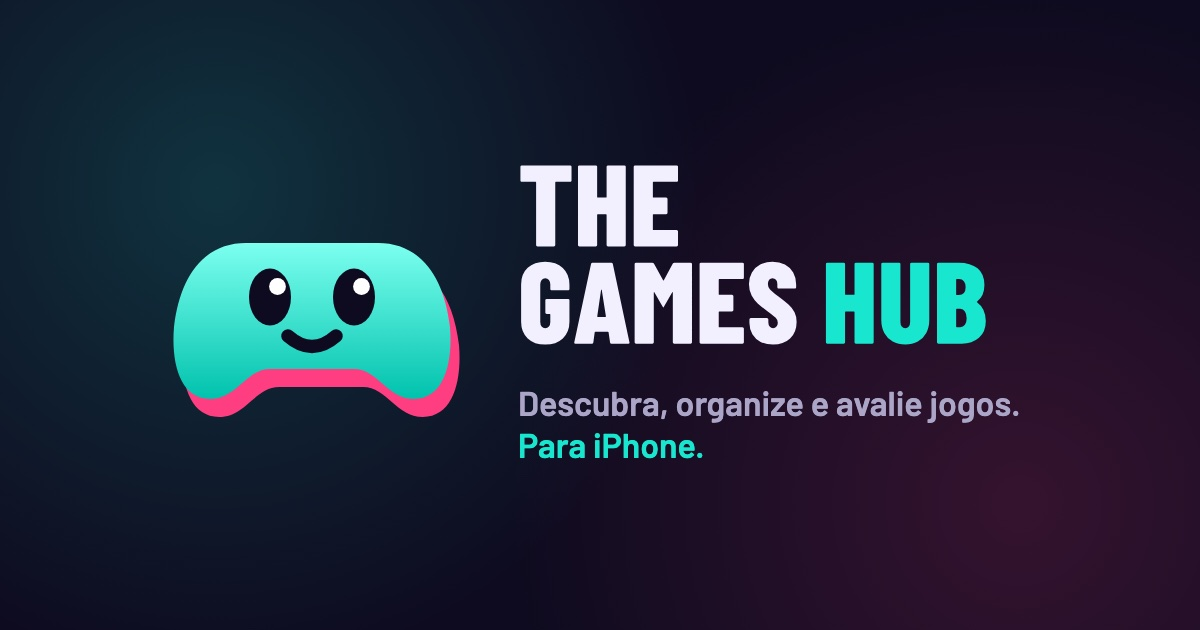
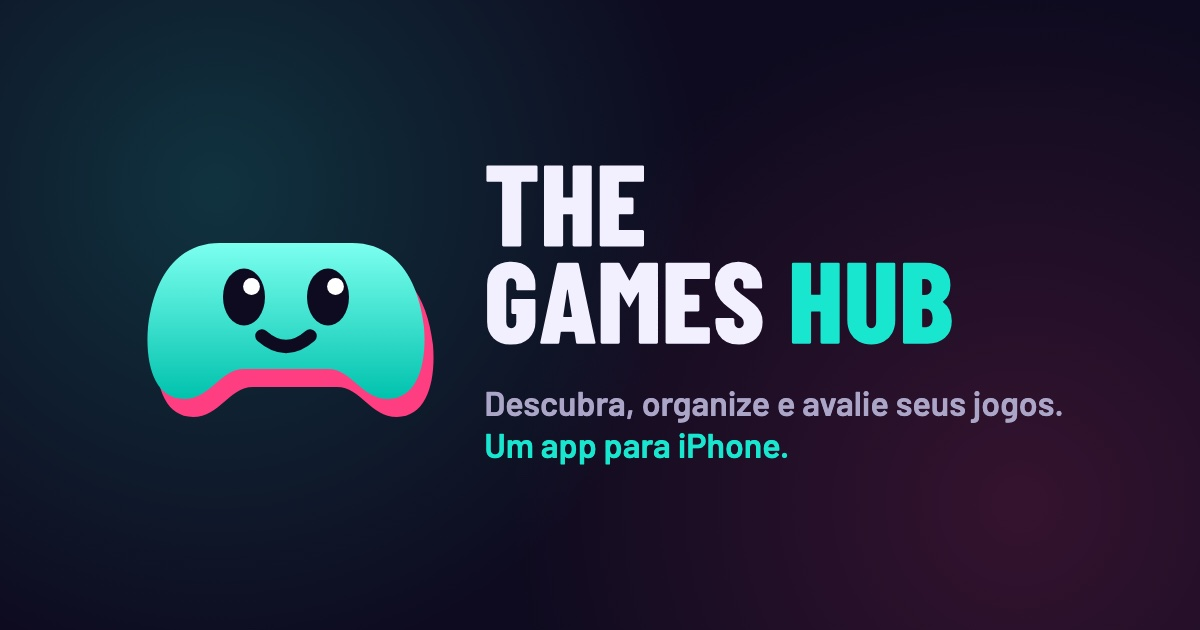
Make the link preview say it is an app

Changed region(s): [[0.1233, 0.2413, 0.8942, 0.754]]

diff --git a/index.html b/index.html
@@ -17,7 +17,7 @@
   <meta property="og:title" content="TheGamesHub · Descubra, organize e avalie jogos">
   <meta property="og:description" content="Descubra jogos, organize suas listas, dê notas e acompanhe o que seus amigos estão jogando. App para iPhone.">
   <meta property="og:url" content="https://thegameshub.com.br/">
-  <meta property="og:image" content="https://thegameshub.com.br/assets/og.jpg">
+  <meta property="og:image" content="https://thegameshub.com.br/assets/og.jpg?v=2">
   <meta property="og:image:width" content="1200">
   <meta property="og:image:height" content="630">
   <meta property="og:image:alt" content="Mascote e letreiro do TheGamesHub">

diff --git a/suporte.html b/suporte.html
@@ -17,7 +17,7 @@
   <meta property="og:title" content="Suporte · TheGamesHub">
   <meta property="og:description" content="Ajuda com o app TheGamesHub: fale com a gente pelo contato@thegameshub.com.br.">
   <meta property="og:url" content="https://thegameshub.com.br/suporte.html">
-  <meta property="og:image" content="https://thegameshub.com.br/assets/og.jpg">
+  <meta property="og:image" content="https://thegameshub.com.br/assets/og.jpg?v=2">
   <meta property="og:image:width" content="1200">
   <meta property="og:image:height" content="630">
   <meta property="og:image:alt" content="Mascote e letreiro do TheGamesHub">

diff --git a/privacidade.html b/privacidade.html
@@ -17,7 +17,7 @@
   <meta property="og:title" content="Política de Privacidade · TheGamesHub">
   <meta property="og:description" content="Como o app TheGamesHub coleta, usa e protege seus dados.">
   <meta property="og:url" content="https://thegameshub.com.br/privacidade.html">
-  <meta property="og:image" content="https://thegameshub.com.br/assets/og.jpg">
+  <meta property="og:image" content="https://thegameshub.com.br/assets/og.jpg?v=2">
   <meta property="og:image:width" content="1200">
   <meta property="og:image:height" content="630">
   <meta property="og:image:alt" content="Mascote e letreiro do TheGamesHub">

diff --git a/termos.html b/termos.html
@@ -17,7 +17,7 @@
   <meta property="og:title" content="Termos de Uso · TheGamesHub">
   <meta property="og:description" content="As regras de uso do app TheGamesHub.">
   <meta property="og:url" content="https://thegameshub.com.br/termos.html">
-  <meta property="og:image" content="https://thegameshub.com.br/assets/og.jpg">
+  <meta property="og:image" content="https://thegameshub.com.br/assets/og.jpg?v=2">
   <meta property="og:image:width" content="1200">
   <meta property="og:image:height" content="630">
   <meta property="og:image:alt" content="Mascote e letreiro do TheGamesHub">
